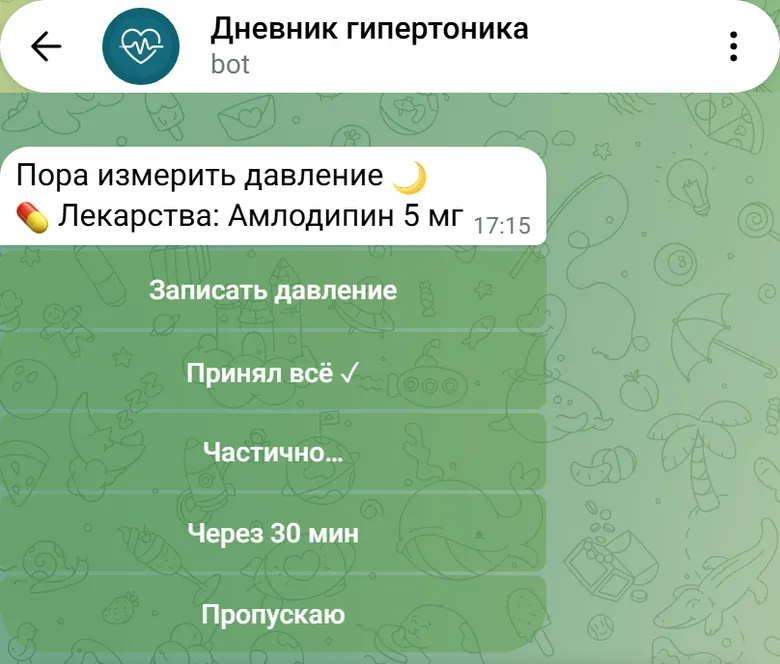
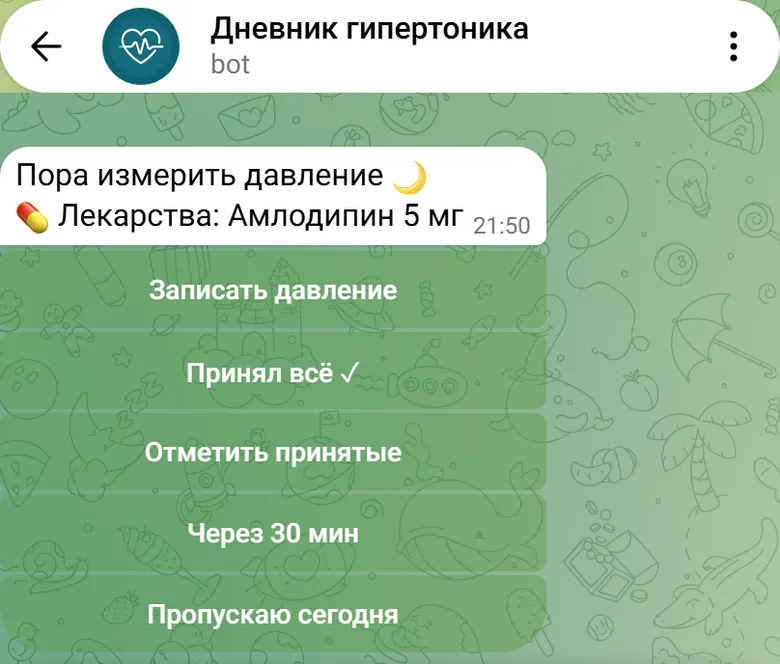
docs(landing): покажи новые кнопки напоминания и лекарства в дневнике
Кадр напоминания переснят под 0.5.5 («Отметить принятые», «Пропускаю
сегодня», `?v=0.5.5`); новый кадр «Лекарства за сегодня» — строка
лекарств и «💊 Отметить приём» в «Дневнике за сегодня». SPEC §16.1 —
9 кадров бота.

Changed region(s): [[0.1846, 0.9036, 0.5231, 0.9639], [0.1846, 0.6627, 0.5231, 0.7229], [0.6154, 0.3313, 0.6769, 0.3614]]

diff --git a/web/landing/index.html b/web/landing/index.html
@@ -308,8 +308,9 @@
           <figure><button type="button" class="screen-open group block w-full text-left cursor-zoom-in focus:outline-none focus-visible:ring-4 focus-visible:ring-blue-300 rounded-[1.75rem]" data-full="img/screens/bot-menu.webp" data-title="Главное меню" data-text="Все действия — кнопками: записать давление, дневник за сегодня, статистика, настройки, личный кабинет и отчёт для врача."><div class="mx-auto max-w-[300px] rounded-[1.75rem] bg-slate-900 p-2 shadow-xl shadow-slate-900/20 transition duration-300 group-hover:-translate-y-1 group-hover:shadow-2xl"><div class="mx-auto mb-1.5 mt-0.5 h-1.5 w-16 rounded-full bg-slate-700" aria-hidden="true"></div><div class="relative overflow-hidden rounded-[1.25rem] bg-white max-h-[520px]"><img src="img/screens/bot-menu.webp" width="780" height="855" loading="lazy" decoding="async" alt="Главное меню" class="w-full h-auto"></div></div></button><figcaption class="mt-4 px-1"><h3 class="font-semibold text-slate-900">Главное меню</h3><p class="mt-1 text-sm text-slate-600 leading-relaxed">Все действия — кнопками: записать давление, дневник за сегодня, статистика, настройки, личный кабинет и отчёт для врача.</p></figcaption></figure>
           <figure><button type="button" class="screen-open group block w-full text-left cursor-zoom-in focus:outline-none focus-visible:ring-4 focus-visible:ring-blue-300 rounded-[1.75rem]" data-full="img/screens/bot-keypad.webp" data-title="Ввод как на калькуляторе" data-text="Давление набирается кнопками-цифрами — или просто числом в чат."><div class="mx-auto max-w-[300px] rounded-[1.75rem] bg-slate-900 p-2 shadow-xl shadow-slate-900/20 transition duration-300 group-hover:-translate-y-1 group-hover:shadow-2xl"><div class="mx-auto mb-1.5 mt-0.5 h-1.5 w-16 rounded-full bg-slate-700" aria-hidden="true"></div><div class="relative overflow-hidden rounded-[1.25rem] bg-white max-h-[520px]"><img src="img/screens/bot-keypad.webp" width="780" height="867" loading="lazy" decoding="async" alt="Ввод как на калькуляторе" class="w-full h-auto"></div></div></button><figcaption class="mt-4 px-1"><h3 class="font-semibold text-slate-900">Ввод как на калькуляторе</h3><p class="mt-1 text-sm text-slate-600 leading-relaxed">Давление набирается кнопками-цифрами — или просто числом в чат.</p></figcaption></figure>
           <figure><button type="button" class="screen-open group block w-full text-left cursor-zoom-in focus:outline-none focus-visible:ring-4 focus-visible:ring-blue-300 rounded-[1.75rem]" data-full="img/screens/bot-saved.webp" data-title="Запись сохранена" data-text="Сразу видно, что записалось. Здесь же — исправить, добавить заметку, отметить лекарство и самочувствие."><div class="mx-auto max-w-[300px] rounded-[1.75rem] bg-slate-900 p-2 shadow-xl shadow-slate-900/20 transition duration-300 group-hover:-translate-y-1 group-hover:shadow-2xl"><div class="mx-auto mb-1.5 mt-0.5 h-1.5 w-16 rounded-full bg-slate-700" aria-hidden="true"></div><div class="relative overflow-hidden rounded-[1.25rem] bg-white max-h-[520px]"><img src="img/screens/bot-saved.webp" width="780" height="745" loading="lazy" decoding="async" alt="Запись сохранена" class="w-full h-auto"></div></div></button><figcaption class="mt-4 px-1"><h3 class="font-semibold text-slate-900">Запись сохранена</h3><p class="mt-1 text-sm text-slate-600 leading-relaxed">Сразу видно, что записалось. Здесь же — исправить, добавить заметку, отметить лекарство и самочувствие.</p></figcaption></figure>
-          <figure><button type="button" class="screen-open group block w-full text-left cursor-zoom-in focus:outline-none focus-visible:ring-4 focus-visible:ring-blue-300 rounded-[1.75rem]" data-full="img/screens/bot-reminder.webp" data-title="Напоминание по расписанию" data-text="Бот напомнит измерить давление и перечислит лекарства этого времени. Отметить приём — одним нажатием."><div class="mx-auto max-w-[300px] rounded-[1.75rem] bg-slate-900 p-2 shadow-xl shadow-slate-900/20 transition duration-300 group-hover:-translate-y-1 group-hover:shadow-2xl"><div class="mx-auto mb-1.5 mt-0.5 h-1.5 w-16 rounded-full bg-slate-700" aria-hidden="true"></div><div class="relative overflow-hidden rounded-[1.25rem] bg-white max-h-[520px]"><img src="img/screens/bot-reminder.webp" width="780" height="664" loading="lazy" decoding="async" alt="Напоминание по расписанию" class="w-full h-auto"></div></div></button><figcaption class="mt-4 px-1"><h3 class="font-semibold text-slate-900">Напоминание по расписанию</h3><p class="mt-1 text-sm text-slate-600 leading-relaxed">Бот напомнит измерить давление и перечислит лекарства этого времени. Отметить приём — одним нажатием.</p></figcaption></figure>
+          <figure><button type="button" class="screen-open group block w-full text-left cursor-zoom-in focus:outline-none focus-visible:ring-4 focus-visible:ring-blue-300 rounded-[1.75rem]" data-full="img/screens/bot-reminder.webp?v=0.5.5" data-title="Напоминание по расписанию" data-text="Бот напомнит измерить давление и перечислит лекарства этого времени. Отметить приём — одним нажатием: «Принял всё ✓» или «Отметить принятые»."><div class="mx-auto max-w-[300px] rounded-[1.75rem] bg-slate-900 p-2 shadow-xl shadow-slate-900/20 transition duration-300 group-hover:-translate-y-1 group-hover:shadow-2xl"><div class="mx-auto mb-1.5 mt-0.5 h-1.5 w-16 rounded-full bg-slate-700" aria-hidden="true"></div><div class="relative overflow-hidden rounded-[1.25rem] bg-white max-h-[520px]"><img src="img/screens/bot-reminder.webp?v=0.5.5" width="780" height="664" loading="lazy" decoding="async" alt="Напоминание по расписанию" class="w-full h-auto"></div></div></button><figcaption class="mt-4 px-1"><h3 class="font-semibold text-slate-900">Напоминание по расписанию</h3><p class="mt-1 text-sm text-slate-600 leading-relaxed">Бот напомнит измерить давление и перечислит лекарства этого времени. Отметить приём — одним нажатием: «Принял всё ✓» или «Отметить принятые».</p></figcaption></figure>
           <figure><button type="button" class="screen-open group block w-full text-left cursor-zoom-in focus:outline-none focus-visible:ring-4 focus-visible:ring-blue-300 rounded-[1.75rem]" data-full="img/screens/bot-meds.webp" data-title="Какие лекарства приняли" data-text="Отметьте принятые таблетки. Пометка «· сегодня ✓» показывает, что уже принято сегодня."><div class="mx-auto max-w-[300px] rounded-[1.75rem] bg-slate-900 p-2 shadow-xl shadow-slate-900/20 transition duration-300 group-hover:-translate-y-1 group-hover:shadow-2xl"><div class="mx-auto mb-1.5 mt-0.5 h-1.5 w-16 rounded-full bg-slate-700" aria-hidden="true"></div><div class="relative overflow-hidden rounded-[1.25rem] bg-white max-h-[520px]"><img src="img/screens/bot-meds.webp" width="780" height="813" loading="lazy" decoding="async" alt="Какие лекарства приняли" class="w-full h-auto"></div></div></button><figcaption class="mt-4 px-1"><h3 class="font-semibold text-slate-900">Какие лекарства приняли</h3><p class="mt-1 text-sm text-slate-600 leading-relaxed">Отметьте принятые таблетки. Пометка «· сегодня ✓» показывает, что уже принято сегодня.</p></figcaption></figure>
+          <figure><button type="button" class="screen-open group block w-full text-left cursor-zoom-in focus:outline-none focus-visible:ring-4 focus-visible:ring-blue-300 rounded-[1.75rem]" data-full="img/screens/bot-diary.webp" data-title="Лекарства за сегодня" data-text="В «Дневнике за сегодня» видно, какие приёмы уже отмечены. Забыли отметить — кнопка «💊 Отметить приём»."><div class="mx-auto max-w-[300px] rounded-[1.75rem] bg-slate-900 p-2 shadow-xl shadow-slate-900/20 transition duration-300 group-hover:-translate-y-1 group-hover:shadow-2xl"><div class="mx-auto mb-1.5 mt-0.5 h-1.5 w-16 rounded-full bg-slate-700" aria-hidden="true"></div><div class="relative overflow-hidden rounded-[1.25rem] bg-white max-h-[520px]"><img src="img/screens/bot-diary.webp" width="780" height="705" loading="lazy" decoding="async" alt="Лекарства за сегодня" class="w-full h-auto"></div></div></button><figcaption class="mt-4 px-1"><h3 class="font-semibold text-slate-900">Лекарства за сегодня</h3><p class="mt-1 text-sm text-slate-600 leading-relaxed">В «Дневнике за сегодня» видно, какие приёмы уже отмечены. Забыли отметить — кнопка «💊 Отметить приём».</p></figcaption></figure>
           <figure><button type="button" class="screen-open group block w-full text-left cursor-zoom-in focus:outline-none focus-visible:ring-4 focus-visible:ring-blue-300 rounded-[1.75rem]" data-full="img/screens/bot-stats.webp?v=0.5.3" data-title="Статистика за 7 дней" data-text="Гистограмма по дням: верхнее давление — вверх, нижнее — вниз, пульс — на линии, цвет — зона давления. Под ней — средние, тренд, цель и приём лекарств."><div class="mx-auto max-w-[300px] rounded-[1.75rem] bg-slate-900 p-2 shadow-xl shadow-slate-900/20 transition duration-300 group-hover:-translate-y-1 group-hover:shadow-2xl"><div class="mx-auto mb-1.5 mt-0.5 h-1.5 w-16 rounded-full bg-slate-700" aria-hidden="true"></div><div class="relative overflow-hidden rounded-[1.25rem] bg-white max-h-[520px]"><img src="img/screens/bot-stats.webp?v=0.5.3" width="780" height="1380" loading="lazy" decoding="async" alt="Статистика за 7 дней" class="w-full h-auto"></div></div></button><figcaption class="mt-4 px-1"><h3 class="font-semibold text-slate-900">Статистика за 7 дней</h3><p class="mt-1 text-sm text-slate-600 leading-relaxed">Гистограмма по дням: верхнее давление — вверх, нижнее — вниз, пульс — на линии, цвет — зона давления. Под ней — средние, тренд, цель и приём лекарств.</p></figcaption></figure>
           <figure><button type="button" class="screen-open group block w-full text-left cursor-zoom-in focus:outline-none focus-visible:ring-4 focus-visible:ring-blue-300 rounded-[1.75rem]" data-full="img/screens/bot-daily.webp" data-title="Средние по дням" data-text="Кнопка «По дням» под статистикой: среднее давление и пульс за каждый день, цветной кружок — зона давления, внизу — среднее за день."><div class="mx-auto max-w-[300px] rounded-[1.75rem] bg-slate-900 p-2 shadow-xl shadow-slate-900/20 transition duration-300 group-hover:-translate-y-1 group-hover:shadow-2xl"><div class="mx-auto mb-1.5 mt-0.5 h-1.5 w-16 rounded-full bg-slate-700" aria-hidden="true"></div><div class="relative overflow-hidden rounded-[1.25rem] bg-white max-h-[520px]"><img src="img/screens/bot-daily.webp" width="780" height="624" loading="lazy" decoding="async" alt="Средние по дням" class="w-full h-auto"></div></div></button><figcaption class="mt-4 px-1"><h3 class="font-semibold text-slate-900">Средние по дням</h3><p class="mt-1 text-sm text-slate-600 leading-relaxed">Кнопка «По дням» под статистикой: среднее давление и пульс за каждый день, цветной кружок — зона давления, внизу — среднее за день.</p></figcaption></figure>
           <figure><button type="button" class="screen-open group block w-full text-left cursor-zoom-in focus:outline-none focus-visible:ring-4 focus-visible:ring-blue-300 rounded-[1.75rem]" data-full="img/screens/bot-calendar.webp" data-title="Свой период" data-text="Кроме 7 и 30 дней — любой период до 31 дня: первый и последний день выбираются в календаре кнопками."><div class="mx-auto max-w-[300px] rounded-[1.75rem] bg-slate-900 p-2 shadow-xl shadow-slate-900/20 transition duration-300 group-hover:-translate-y-1 group-hover:shadow-2xl"><div class="mx-auto mb-1.5 mt-0.5 h-1.5 w-16 rounded-full bg-slate-700" aria-hidden="true"></div><div class="relative overflow-hidden rounded-[1.25rem] bg-white max-h-[520px]"><img src="img/screens/bot-calendar.webp" width="780" height="989" loading="lazy" decoding="async" alt="Свой период" class="w-full h-auto"></div></div></button><figcaption class="mt-4 px-1"><h3 class="font-semibold text-slate-900">Свой период</h3><p class="mt-1 text-sm text-slate-600 leading-relaxed">Кроме 7 и 30 дней — любой период до 31 дня: первый и последний день выбираются в календаре кнопками.</p></figcaption></figure>

diff --git a/tests/test_landing.py b/tests/test_landing.py
@@ -162,6 +162,7 @@ SCREENS = {
     "bot-saved": "Запись сохранена",
     "bot-reminder": "Напоминание по расписанию",
     "bot-meds": "Какие лекарства приняли",
+    "bot-diary": "Лекарства за сегодня",
     "bot-stats": "Статистика за 7 дней",
     "bot-daily": "Средние по дням",
     "bot-calendar": "Свой период",

diff --git a/doc/SPEC.md b/doc/SPEC.md
@@ -982,7 +982,7 @@ SemVer (`MAJOR.MINOR.PATCH`): MAJOR — ломающие изменения, MIN
 - **Вход в личный кабинет**: ссылка «Войти в личный кабинет» на `/login` веб-кабинета (вход e-mail + пароль) в трёх местах: шапка (компактная кнопка рядом с «Открыть в Telegram»), финальный CTA и раздел «Личный кабинет» руководства. Адаптивность шапки: <640px — компактные кнопки и только иконка логотипа; 640–1023px — название логотипа и кнопки, навигация скрыта; 1024–1279px — иконка логотипа, навигация и кнопки; ≥1280px — полный вид. Переполнения шапки и горизонтального скролла нет ни на одной ширине.
 - **Проблема / решение**: 3 коротких блока — «Забываете мерить?», «Не помните, приняли ли таблетку?», «Врач просит дневник, а вести некогда?».
 - **Как это работает**: 3 шага с иконками (запись → напоминания → статистика).
-- **Как это выглядит** (якорь `#screens`, сразу после «Как это работает»): вкладки «Telegram-бот» / «Личный кабинет» / «Кабинет врача» со скриншотами и подписями. Бот (8 кадров, Telegram Web, рамка телефона): главное меню, калькулятор с вводом, сводка после сохранения, напоминание с перечнем лекарств, мультивыбор лекарств («· сегодня ✓»), статистика за 7 дней, «По дням» и календарь своего периода (0.5.3). Личный кабинет (6, рамка браузера): три графика с зонами, «Средние по дням» (0.5.3), история с подсветкой зон, форма «Добавить измерение» с выбором лекарств, управление лекарствами, импорт CSV с отчётом. Кабинет врача (3): список пациентов, карточка пациента, первая страница PDF-отчёта. Плюс мобильные кадры (390 px): история ЛК и карточка пациента у врача. Увеличение по клику — минимальный JS (`script.js`). Картинки — `web/landing/img/screens/*.webp` (`loading="lazy"`, заданные `width`/`height`, `alt`). Подписи — утверждённые дословно (`doc/LANDING-SCREENS-QUESTIONS.md`). Снимаются скриптом `qa/screenshots/shot_landing.py` на локальном стенде с вымышленными данными (отдельная демо-БД с «test-stand» в имени, тестовый бот); в кадр бота — только область диалога (без списка чатов и профиля аккаунта).
+- **Как это выглядит** (якорь `#screens`, сразу после «Как это работает»): вкладки «Telegram-бот» / «Личный кабинет» / «Кабинет врача» со скриншотами и подписями. Бот (9 кадров, Telegram Web, рамка телефона): главное меню, калькулятор с вводом, сводка после сохранения, напоминание с перечнем лекарств, мультивыбор лекарств («· сегодня ✓»), «Дневник за сегодня» со строкой лекарств (0.5.5), статистика за 7 дней, «По дням» и календарь своего периода (0.5.3). Личный кабинет (6, рамка браузера): три графика с зонами, «Средние по дням» (0.5.3), история с подсветкой зон, форма «Добавить измерение» с выбором лекарств, управление лекарствами, импорт CSV с отчётом. Кабинет врача (3): список пациентов, карточка пациента, первая страница PDF-отчёта. Плюс мобильные кадры (390 px): история ЛК и карточка пациента у врача. Увеличение по клику — минимальный JS (`script.js`). Картинки — `web/landing/img/screens/*.webp` (`loading="lazy"`, заданные `width`/`height`, `alt`). Подписи — утверждённые дословно (`doc/LANDING-SCREENS-QUESTIONS.md`). Снимаются скриптом `qa/screenshots/shot_landing.py` на локальном стенде с вымышленными данными (отдельная демо-БД с «test-stand» в имени, тестовый бот); в кадр бота — только область диалога (без списка чатов и профиля аккаунта).
 - **Сигналы доверия**: «Бесплатно, без рекламы», «Записи видите только вы и врач, которого вы пригласили», «Сделано одним разработчиком» (до 0.5.0 — «Данные хранятся локально на нашем сервере, не передаются третьим лицам»: неверно — сервер в Германии, Telegram, врач).
 - **Секция «Поддержать проект»** (якорь `#support`):
   - **Информация об авторе**: Старинский Олег Григорьевич, `info@electroman.by`, `@ElectroManBY`; сообщество бота в Telegram — строка «Сообщество: `@my_bp_diary` — новости, подсказки, вопросы и идеи» (ссылка `https://t.me/my_bp_diary`).
